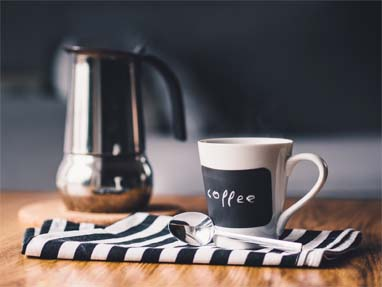
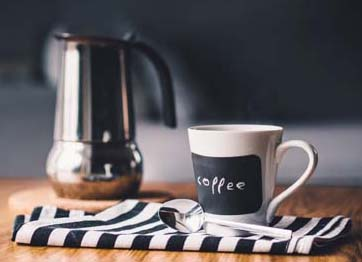
Completed 'Blog' section

diff --git a/resources/css/style.css b/resources/css/style.css
@@ -1,1 +1,1 @@
-.heading-2{font-size:1.8rem;color:#231f20;text-transform:uppercase;font-weight:400;letter-spacing:2px}.heading-3{text-transform:capitalize;font-size:3.5rem;font-weight:400}*,::after,::before{margin:0;padding:0;box-sizing:inherit}html{font-size:62.5%;font-family:'Roboto',sans-serif;color:#637988}.main>*{display:grid;grid-template-columns:[full-start] 1fr [center-start] repeat(12,[col-start] .26fr [col-end]) [center-end] 1fr [full-end]}.main>*>*{grid-column:center-start/center-end}.btn{color:#fff;background-color:#ff3150;border:0;padding:.7rem 3.5rem .9rem;border-radius:5rem;font-size:1.5rem;cursor:pointer;transition:transform .2s ease-in-out;transition:transform .2s ease-in-out,-webkit-transform .2s ease-in-out}.btn:focus,.btn:hover{-webkit-transform:translateY(-2px);transform:translateY(-2px);outline:0}.btn:active{-webkit-transform:translateY(0);transform:translateY(0)}.btn--big{padding:1.4rem 4rem 1.6rem}.btn--capital{text-transform:uppercase}.headline{display:-webkit-flex;display:flex;-webkit-flex-direction:column;flex-direction:column;-webkit-align-items:center;align-items:center;position:relative}.headline__heading{color:#231f20;text-transform:uppercase;font-weight:400;font-size:4.5rem;margin-bottom:1rem}.headline__heading--white{color:#fff}.headline__text{color:#ff3150;text-transform:uppercase;font-size:1.45rem}.header__list::after,.headline::after{content:'';position:absolute;background-color:#ff3150}.headline::after{height:2px;width:4rem;bottom:-2.5rem}.header{width:100%;display:grid;grid-template-columns:[full-start] 1fr [center-start] repeat(12,[col-start] .26fr [col-end]) [center-end] 1fr [full-end];position:absolute;padding:2.5rem 0}.header__container{grid-column:center-start/center-end;-webkit-justify-content:space-between;justify-content:space-between;-webkit-align-items:center;align-items:center}.header__container,.header__list,.header__nav{display:-webkit-flex;display:flex}.header__nav{-webkit-align-items:center;align-items:center}.header__list{list-style:none;position:relative}.header__list>*{margin-right:4rem}.header__list::after{width:1px;height:3rem;right:2rem;top:-.5rem}.header__link:link,.header__link:visited{color:#fff;text-decoration:none;font-size:1.5rem;transition:color .2s ease-in-out}.header__link:link:focus,.header__link:link:hover,.header__link:visited:focus,.header__link:visited:hover{color:#ff3150;outline:0}.header__icon{fill:#ff3150;width:2rem;height:2rem;margin-right:2rem;cursor:pointer;transition:transform .2s ease-in-out;transition:transform .2s ease-in-out,-webkit-transform .2s ease-in-out}.header__icon:hover{-webkit-transform:scale(1.1);transform:scale(1.1)}.hero{background-image:url(../img/hero_bg.jpg);background-repeat:no-repeat;background-size:cover;height:100vh;-webkit-align-content:center;align-content:center;justify-items:center}.hero__text{color:#a8b9c0;font-size:2.5rem;text-align:center;margin:1rem 0 8rem}.history{padding:12rem 0 0;justify-items:center}.history__text{margin-top:6.5rem;font-size:1.6rem;line-height:1.6;text-align:center}.features{padding:12rem 0;background-color:#f4f4f4}.features__container{grid-gap:4rem;display:grid;grid-template-columns:repeat(auto-fit,minmax(30rem,1fr));-webkit-justify-content:center;justify-content:center}.features__feature{display:-webkit-flex;display:flex;-webkit-flex-direction:column;flex-direction:column;-webkit-align-items:center;align-items:center;background-color:#fff;padding:6rem 2rem 10rem;position:relative}.features__feature::before{content:'';position:absolute;height:2px;width:3rem;background-color:#ff3150;top:14rem}.features__icon{width:6rem;height:6rem;margin-bottom:4rem}.features__text{margin-top:4rem;font-size:1.5rem;text-align:center;line-height:1.6}.clients{background-image:linear-gradient(rgba(15,15,20,.9),rgba(15,15,20,.9)),url(../img/clients_bg.jpg);padding:12rem 0;background-size:cover;background-position:center;background-repeat:no-repeat;background-attachment:fixed}.clients__logos{margin-top:10rem;display:-webkit-flex;display:flex;-webkit-align-items:center;align-items:center;-webkit-justify-content:center;justify-content:center}.clients__logo:not(:last-child){margin-right:5rem}.works{padding:12rem 0}.works__examples{margin-top:10rem;display:grid;grid-template-columns:repeat(auto-fit,minmax(25rem,1fr));justify-items:center;grid-gap:4.5rem}.works__caption,.works__example{display:-webkit-flex;display:flex;-webkit-flex-direction:column;flex-direction:column;-webkit-align-items:center;align-items:center;-webkit-justify-content:center;justify-content:center}.works__example{overflow:hidden;max-height:25rem;position:relative}.works__caption{position:absolute;height:100%;width:100%;color:#fff;background-color:#ff3150;opacity:0;cursor:pointer;transition:opacity .2s}.works__caption:hover{opacity:1}.works__img{max-height:25rem}.works__name{text-transform:uppercase;font-size:1.5rem}.works__category{font-size:1.2rem}.cta{padding:12rem 0;background-image:linear-gradient(rgba(11,29,53,.9),rgba(11,29,53,.9)),url(../img/cta_bg.jpg);background-size:cover;background-position:center;background-attachment:fixed;justify-items:center;color:#fff}.cta__text{padding:2rem 0 5rem;font-size:1.5rem}
+.heading-2{font-size:1.8rem;color:#231f20;text-transform:uppercase;font-weight:400;letter-spacing:2px}.heading-3,.heading-4{text-transform:capitalize;font-size:3.5rem;font-weight:400}.heading-4{color:#1a2940;font-size:2rem;font-weight:500}*,::after,::before{margin:0;padding:0;box-sizing:inherit}html{font-size:62.5%;font-family:'Roboto',sans-serif;color:#637988}.main>*{display:grid;grid-template-columns:[full-start] 1fr [center-start] repeat(12,[col-start] .26fr [col-end]) [center-end] 1fr [full-end]}.main>*>*{grid-column:center-start/center-end}.btn{color:#fff;background-color:#ff3150;border:0;padding:.7rem 3.5rem .9rem;border-radius:5rem;font-size:1.5rem;cursor:pointer;transition:transform .2s ease-in-out;transition:transform .2s ease-in-out,-webkit-transform .2s ease-in-out}.btn:focus,.btn:hover{-webkit-transform:translateY(-2px);transform:translateY(-2px);outline:0}.btn:active{-webkit-transform:translateY(0);transform:translateY(0)}.btn--big{padding:1.4rem 4rem 1.6rem}.btn--capital{text-transform:uppercase}.headline{display:-webkit-flex;display:flex;-webkit-flex-direction:column;flex-direction:column;-webkit-align-items:center;align-items:center;position:relative}.headline__heading{color:#231f20;text-transform:uppercase;font-weight:400;font-size:4.5rem;margin-bottom:1rem}.headline__heading--white{color:#fff}.headline__text{color:#ff3150;text-transform:uppercase;font-size:1.45rem}.header__list::after,.headline::after{content:'';position:absolute;background-color:#ff3150}.headline::after{height:2px;width:4rem;bottom:-2.5rem}.header{width:100%;display:grid;grid-template-columns:[full-start] 1fr [center-start] repeat(12,[col-start] .26fr [col-end]) [center-end] 1fr [full-end];position:absolute;padding:2.5rem 0}.header__container{grid-column:center-start/center-end;-webkit-justify-content:space-between;justify-content:space-between;-webkit-align-items:center;align-items:center}.header__container,.header__list,.header__nav{display:-webkit-flex;display:flex}.header__nav{-webkit-align-items:center;align-items:center}.header__list{list-style:none;position:relative}.header__list>*{margin-right:4rem}.header__list::after{width:1px;height:3rem;right:2rem;top:-.5rem}.header__link:link,.header__link:visited{color:#fff;text-decoration:none;font-size:1.5rem;transition:color .2s ease-in-out}.header__link:link:focus,.header__link:link:hover,.header__link:visited:focus,.header__link:visited:hover{color:#ff3150;outline:0}.header__icon{fill:#ff3150;width:2rem;height:2rem;margin-right:2rem;cursor:pointer;transition:transform .2s ease-in-out;transition:transform .2s ease-in-out,-webkit-transform .2s ease-in-out}.header__icon:hover{-webkit-transform:scale(1.1);transform:scale(1.1)}.hero{background-image:url(../img/hero_bg.jpg);background-repeat:no-repeat;background-size:cover;height:100vh;-webkit-align-content:center;align-content:center;justify-items:center}.hero__text{color:#a8b9c0;font-size:2.5rem;text-align:center;margin:1rem 0 8rem}.history{padding:12rem 0 0;justify-items:center}.history__text{margin-top:6.5rem;font-size:1.6rem;line-height:1.6;text-align:center}.features{padding:12rem 0;background-color:#f4f4f4}.features__container{grid-gap:4rem;display:grid;grid-template-columns:repeat(auto-fit,minmax(30rem,1fr));-webkit-justify-content:center;justify-content:center}.features__feature{display:-webkit-flex;display:flex;-webkit-flex-direction:column;flex-direction:column;-webkit-align-items:center;align-items:center;background-color:#fff;padding:6rem 2rem 10rem;position:relative}.features__feature::before{content:'';position:absolute;height:2px;width:3rem;background-color:#ff3150;top:14rem}.features__icon{width:6rem;height:6rem;margin-bottom:4rem}.features__text{margin-top:4rem;font-size:1.5rem;text-align:center;line-height:1.6}.clients{background-image:linear-gradient(rgba(15,15,20,.9),rgba(15,15,20,.9)),url(../img/clients_bg.jpg);padding:12rem 0;background-size:cover;background-position:center;background-repeat:no-repeat;background-attachment:fixed}.clients__logos{margin-top:10rem;display:-webkit-flex;display:flex;-webkit-align-items:center;align-items:center;-webkit-justify-content:center;justify-content:center}.clients__logo:not(:last-child){margin-right:5rem}.works{padding:12rem 0}.works__examples{margin-top:10rem;display:grid;grid-template-columns:repeat(auto-fit,minmax(25rem,1fr));justify-items:center;grid-gap:4.5rem}.works__caption,.works__example{display:-webkit-flex;display:flex;-webkit-flex-direction:column;flex-direction:column;-webkit-align-items:center;align-items:center;-webkit-justify-content:center;justify-content:center}.works__example{overflow:hidden;max-height:25rem;position:relative}.works__caption{position:absolute;height:100%;width:100%;color:#fff;background-color:#ff3150;opacity:0;cursor:pointer;transition:opacity .2s}.works__caption:hover{opacity:1}.works__img{max-height:25rem}.works__name{text-transform:uppercase;font-size:1.5rem}.works__category{font-size:1.2rem}.cta{padding:12rem 0;background-image:linear-gradient(rgba(11,29,53,.9),rgba(11,29,53,.9)),url(../img/cta_bg.jpg);background-size:cover;background-position:center;background-attachment:fixed;justify-items:center;color:#fff}.cta__text{padding:2rem 0 5rem;font-size:1.5rem}.blog{padding:12rem 0 15rem}.blog__posts{margin:8rem 0 5rem;display:grid;grid-template-columns:repeat(auto-fit,minmax(30rem,1fr));grid-gap:5rem}.blog__post{overflow:hidden}.blog__date{color:#a8b9c0}.blog__img{margin-bottom:2rem;max-width:100%}.blog .btn{justify-self:center}

diff --git a/index.html b/index.html
@@ -201,17 +201,17 @@
             </div>
             <div class="blog__posts">
                 <div class="blog__post">
-                    <img src="resources/img/blog_1.jpg" alt="Coffee cup">
+                    <img src="resources/img/blog_1.jpg" alt="Coffee cup" class="blog__img">
                     <p class="blog__date">January 17, 2019</p>
                     <h4 class="heading-4">Some awesome blog title here</h4>
                 </div>
                 <div class="blog__post">
-                    <img src="resources/img/blog_2.jpg" alt="Bridge">
+                    <img src="resources/img/blog_2.jpg" alt="Bridge" class="blog__img">
                     <p class="blog__date">January 17, 2019</p>
                     <h4 class="heading-4">Some awesome blog title here</h4>
                 </div>
                 <div class="blog__post">
-                    <img src="resources/img/blog_3.jpg" alt="Workspace">
+                    <img src="resources/img/blog_3.jpg" alt="Workspace" class="blog__img">
                     <p class="blog__date">January 17, 2019</p>
                     <h4 class="heading-4">Some awesome blog title here</h4>
                 </div>

diff --git a/resources/less/layout/_blog.less b/resources/less/layout/_blog.less
@@ -1,0 +1,27 @@
+.blog {
+    padding: 12rem 0 15rem 0;
+
+    &__posts {
+        margin: 8rem 0 5rem 0;
+        display: grid;
+        grid-template-columns: repeat(auto-fit, minmax(30rem, 1fr));
+        grid-gap: 5rem;
+    }
+
+    &__post {
+        overflow: hidden;
+    }
+
+    &__date {
+        color: @color-lightblue;
+    }
+
+    &__img {
+        margin-bottom: 2rem;
+        max-width: 100%;
+    }
+
+    .btn {
+        justify-self: center;
+    }
+}

diff --git a/resources/less/abstracts/_typography.less b/resources/less/abstracts/_typography.less
@@ -11,3 +11,10 @@
     font-size: 3.5rem;
     font-weight: 400;
 }
+
+.heading-4 {
+    text-transform: capitalize;
+    color: @color-darkblue-1;
+    font-size: 2rem;
+    font-weight: 500;
+}

diff --git a/resources/less/abstracts/_variables.less b/resources/less/abstracts/_variables.less
@@ -6,6 +6,7 @@
 @color-black: #231f20;
 @color-blue: #0b1d35;
 @color-darkblue: #0f0f14;
+@color-darkblue-1: #1a2940;
 @color-grey: #f4f4f4;
 
 // BASIC TRANSITION

diff --git a/resources/less/main.less b/resources/less/main.less
@@ -13,3 +13,4 @@
 @import "layout/_clients.less";
 @import "layout/_works.less";
 @import "layout/_cta.less";
+@import "layout/_blog.less";
